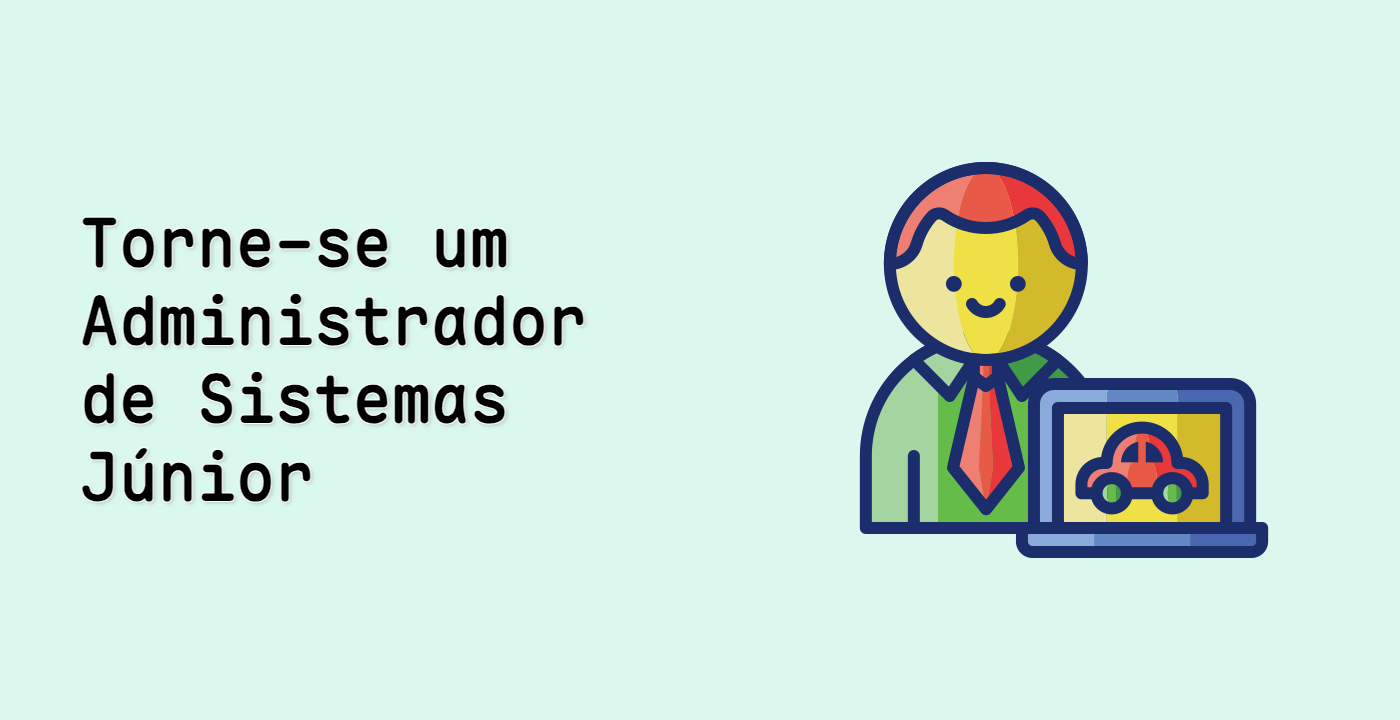
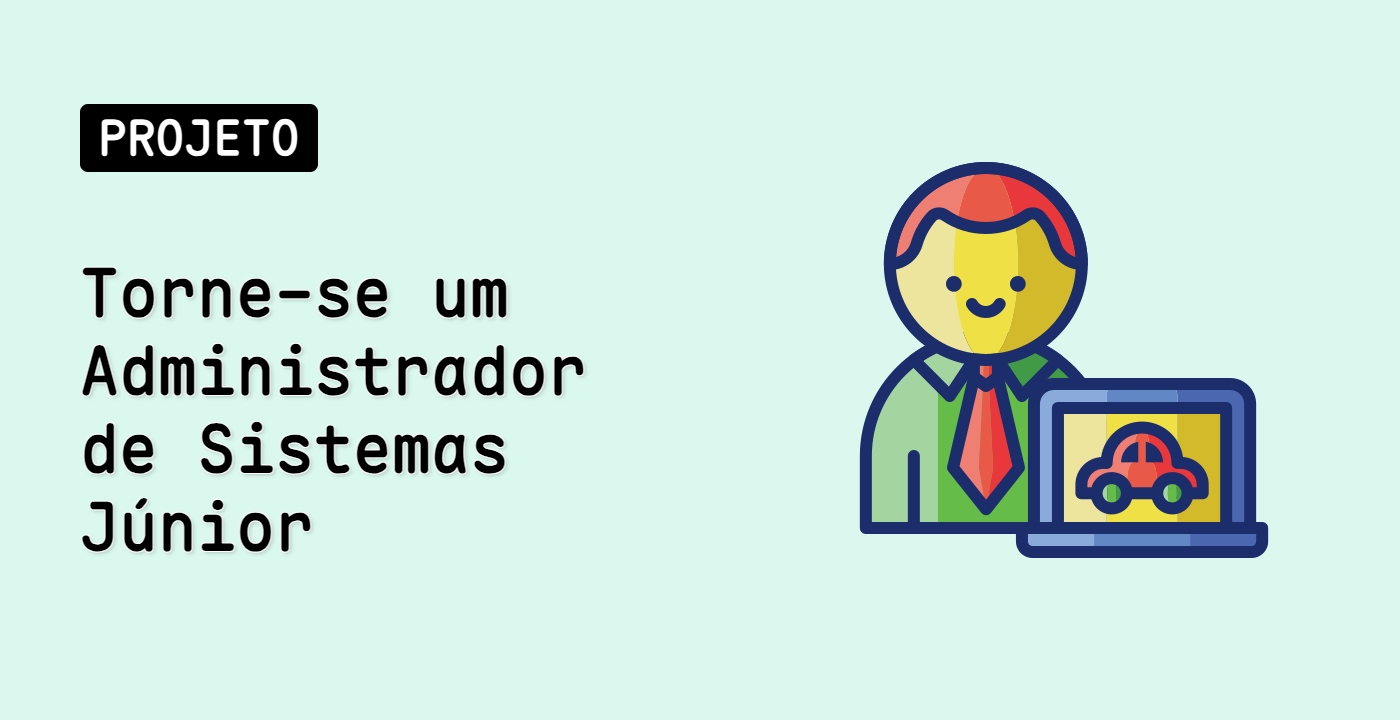
chore: add project status support in course cover generation

Changed region(s): [[0.0614, 0.3056, 0.43, 0.7639], [0.0307, 0.1222, 0.2457, 0.2444]]

diff --git a/preview.html b/preview.html
@@ -29,8 +29,8 @@
       <div class="w-[600px] h-[512px] flex flex-col justify-start gap-4 overflow-hidden">
         <!-- Updating 标识矩形块 - 放在课程标题上方 -->
         <div id="updating-badge" class="hidden mb-4">
-          <div class="inline-block px-4 py-2 rounded-lg text-gray-800 font-black text-5xl border-2 border-gray-800"
-            style="background-color: rgba(255, 255, 255, 0.8); font-family: 'Maple Mono NF CN', monospace;">
+          <div class="inline-block px-4 py-2 rounded-lg text-white font-black text-5xl border-2 border-black"
+            style="background-color: black; font-family: 'Maple Mono NF CN', monospace;">
           </div>
         </div>
 

diff --git a/scripts/generate_cover.py b/scripts/generate_cover.py
@@ -45,6 +45,18 @@ UPDATING_TEXT = {
     "pt": "ATUALIZANDO",
 }
 
+PROJECT_TEXT = {
+    "en": "PROJECT",
+    "ja": "プロジェクト",
+    "zh": "项目",
+    "fr": "PROJET",
+    "es": "PROYECTO",
+    "de": "PROJEKT",
+    "ru": "ПРОЕКТ",
+    "ko": "프로젝트",
+    "pt": "PROJETO",
+}
+
 
 def get_course_info(course_alias: str, lang: str) -> tuple[dict | None, bool]:
     """从 LabEx API 获取课程信息
@@ -235,7 +247,7 @@ def generate_cover(
         course_alias (str): 课程别名
         lang (str): 语言代码
         overwrite (bool, optional): 是否覆盖已存在的封面，默认为 False。
-        status (str, optional): 课程状态，如 'updating'，默认为 None。
+        status (str, optional): 课程状态，如 'updating' 或 'project'，默认为 None。
 
     返回：
         bool: 成功或跳过返回 True，课程不存在返回 False
@@ -314,6 +326,10 @@ def generate_cover(
         status_text = UPDATING_TEXT.get(lang, UPDATING_TEXT["en"])
         params["status_text"] = status_text
         logger.info(f"课程状态：updating, 本地化文案：{status_text}")
+    elif status == "project":
+        status_text = PROJECT_TEXT.get(lang, PROJECT_TEXT["en"])
+        params["status_text"] = status_text
+        logger.info(f"课程状态：project, 本地化文案：{status_text}")
 
     logger.debug(f"生成参数：{params}")
 
@@ -367,7 +383,7 @@ def generate_cover(
 @click.option(
     "--status",
     default=None,
-    help="课程状态（如 updating）",
+    help="课程状态（如 updating, project）",
 )
 def main(alias: str, lang: str, overwrite: bool = False, status: str = None):
     """
